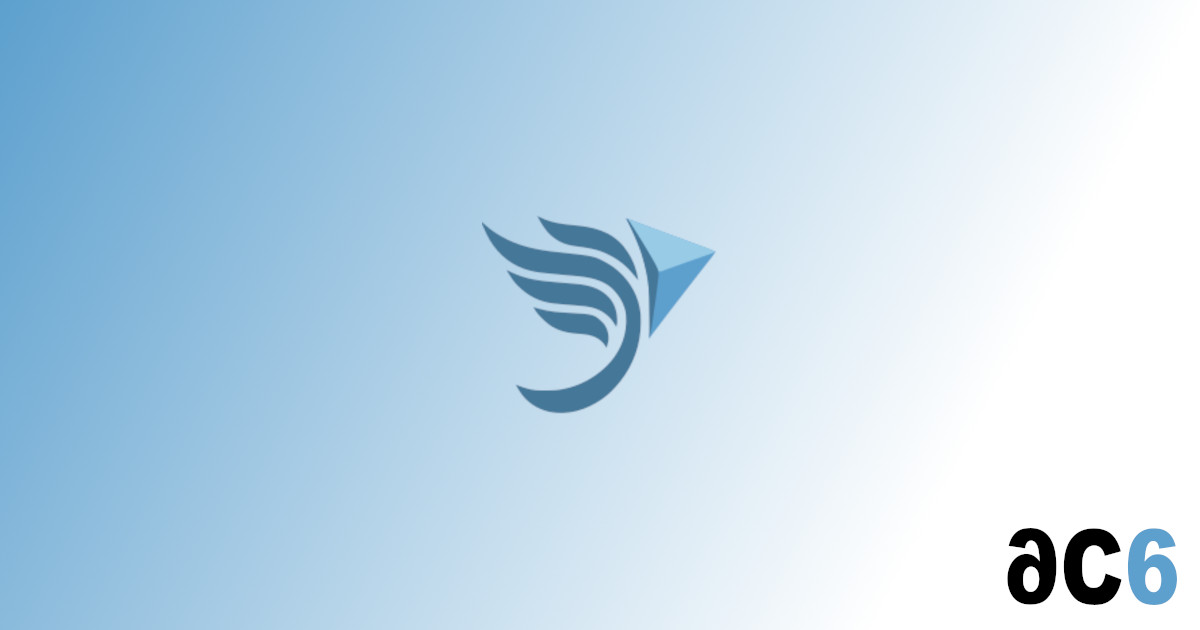
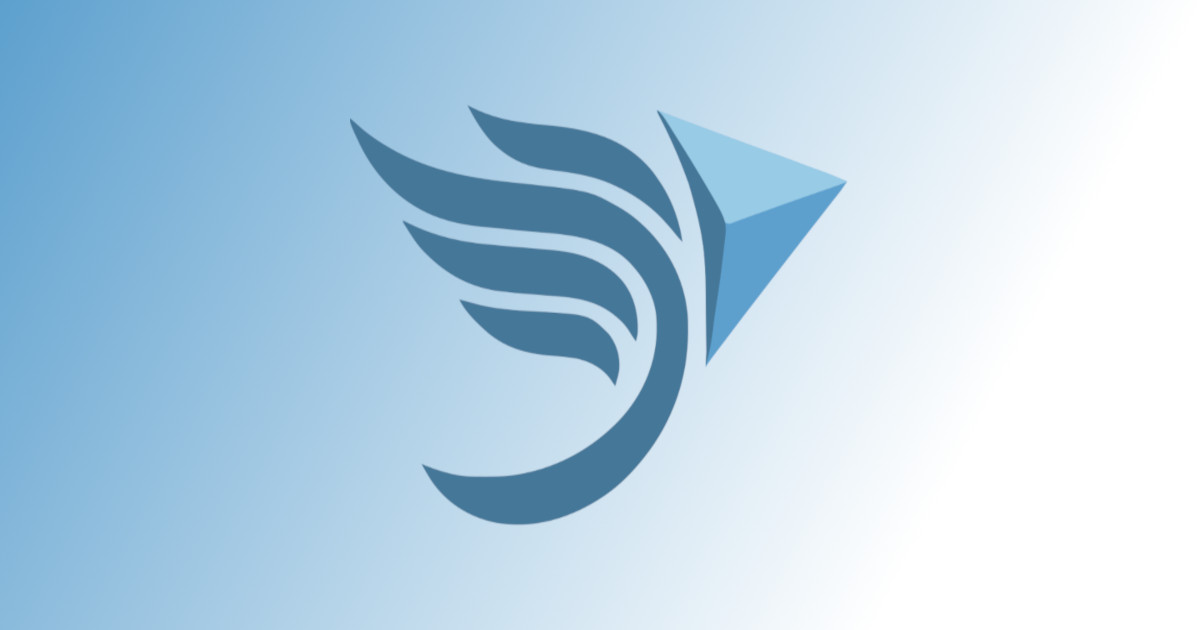
Minor changes + social card

Changed region(s): [[0.2775, 0.181, 0.7092, 0.8444], [0.8325, 0.8143, 0.9867, 0.9651]]

diff --git a/docusaurus.config.js b/docusaurus.config.js
@@ -9,7 +9,7 @@ import {themes as prismThemes} from 'prism-react-renderer';
 /** @type {import('@docusaurus/types').Config} */
 const config = {
   title: 'Zephyr Workbench',
-  tagline: 'A VS Code extension for Zephyr projects on every platforms',
+  tagline: 'A VS Code extension for Zephyr projects on all platforms',
   favicon: 'img/favicon.ico',
 
   // Set the production url of your site here
@@ -53,6 +53,9 @@ const config = {
     /** @type {import('@docusaurus/preset-classic').ThemeConfig} */
     ({
       image: 'img/zw-social-card.jpg',
+      metadata: [
+        {name: 'keywords', content: 'zephyr, development'},
+      ],
       navbar: {
         title: 'Zephyr Workbench',
         logo: {
